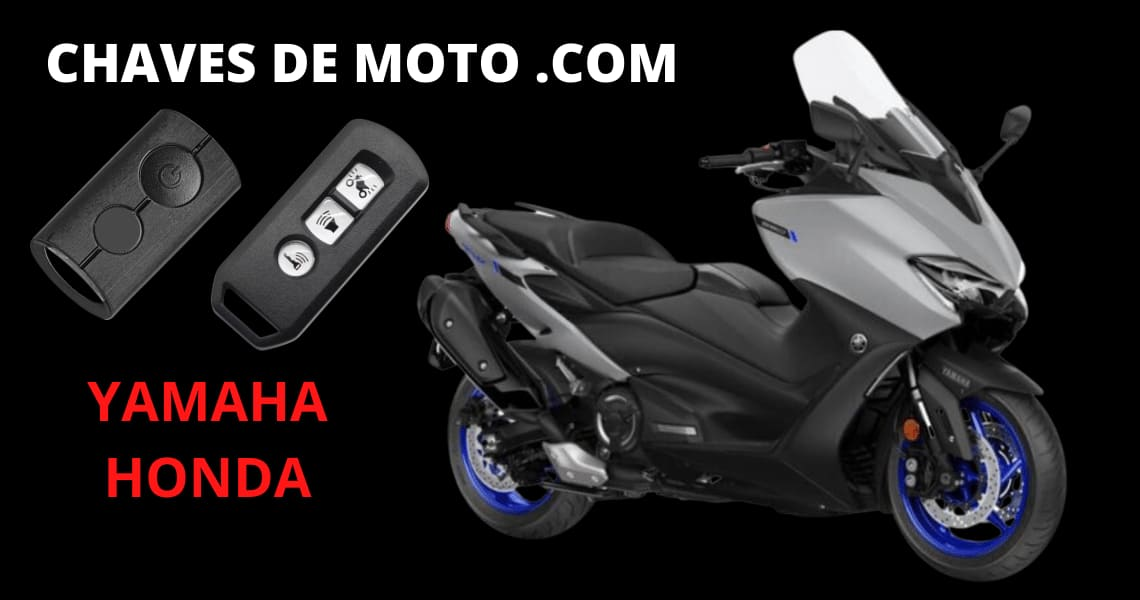
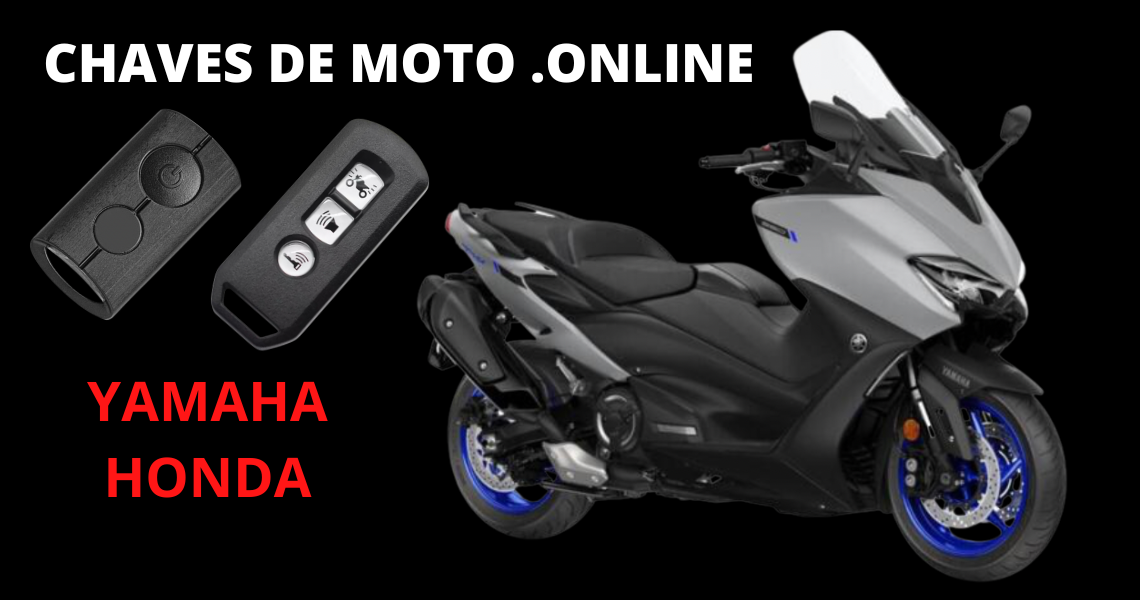
Add files via upload

Changed region(s): [[0.0307, 0.06, 0.6754, 0.15], [0.0614, 0.63, 0.2763, 0.72], [0.0921, 0.75, 0.2763, 0.84]]

diff --git a/index.html b/index.html
@@ -50,7 +50,7 @@
 			<div class="row">
 				<div class="col-md-8 wow fadeIn">
 					<div class="text-center">
-						<h2 class="text-cta text-white margin-tb-20px">Perdeu a chave do seu carro? Garantimos o menor preço!</h2>
+						<h2 class="text-cta text-white margin-tb-20px">Perdeu a chave de presença da sua moto? Garantimos o menor preço!</h2>
 					</div>
 				</div>
                 <div class="col-md-4 wow fadeIn">
@@ -68,8 +68,8 @@
 	<section class="padding-tb-40px background-white">
 		<!-- title -->
 		<div class="text-center margin-bottom-45px wow fadeInUp">
-			<h1 class="text-main-color margin-bottom-0px">Insira um Título Aqui</h1>
-			<span>Aqui poderá vir uma descrição breve. </span>
+			<h1 class="text-main-color margin-bottom-0px">FAZEMOS SUA CHAVE DE PRESENÇA (YAMAHA E HONDA) MESMO QUE TENHA PERDIDO TODAS!</h1>
+			<span>Profissionais Especializados - Chaves para pronta entrega </span>
 		</div>
 		<!-- // title -->
 		<div class="container">
@@ -79,7 +79,7 @@
 					<div class="background-second-color text-center margin-bottom-40px">
 						<img src="images/titulo1.jpg" alt="" width="350" height="247">
 						<div class="service-body padding-30px">
-							<div class="text-black text-extra-large d-block margin-bottom-10px">Titulo 1</div>
+							<div class="text-black text-extra-large d-block margin-bottom-10px">Temos sua chave de presença</div>
 						</div>
 					</div>
 				</div>
@@ -89,7 +89,7 @@
 					<div class="background-second-color text-center margin-bottom-40px">
 						<img src="images/titulo2.jpg" alt="" width="350" height="247">
 						<div class="service-body padding-30px">
-							<div class="text-black text-extra-large d-block margin-bottom-10px">Titulo 2</div>
+							<div class="text-black text-extra-large d-block margin-bottom-10px">Temos sua chave de presença</div>
 						</div>
 					</div>
 				</div>
@@ -99,7 +99,7 @@
 					<div class="background-second-color text-center margin-bottom-40px">
 						<img src="images/titulo3.jpg" alt="" width="350" height="247">
 						<div class="service-body padding-30px">
-							<div class="text-black text-extra-large d-block margin-bottom-10px">Titulo 3</div>
+							<div class="text-black text-extra-large d-block margin-bottom-10px">Temos sua chave de presença</div>
 						</div>
 					</div>
 				</div>
@@ -109,7 +109,7 @@
 					<div class="background-second-color text-center margin-bottom-40px">
 						<img src="images/titulo4.jpg" alt="" width="350" height="247">
 						<div class="service-body padding-30px">
-							<div class="text-black text-extra-large d-block margin-bottom-10px">Titulo 4</div>
+							<div class="text-black text-extra-large d-block margin-bottom-10px">Temos sua chave de presença</div>
 						</div>
 					</div>
 				</div>
@@ -119,7 +119,7 @@
 					<div class="background-second-color text-center margin-bottom-40px">
 						<img src="images/titulo5.jpg" alt="" width="350" height="247">
 						<div class="service-body padding-30px">
-							<div class="text-black text-extra-large d-block margin-bottom-10px">Titulo 5</div>
+							<div class="text-black text-extra-large d-block margin-bottom-10px">Temos sua chave de presença</div>
 						</div>
 					</div>
 				</div>
@@ -129,7 +129,7 @@
 					<div class="background-second-color text-center margin-bottom-40px">
 						<img src="images/titulo6.jpg" alt="" width="350" height="247">
 						<div class="service-body padding-30px">
-							<div class="text-black text-extra-large d-block margin-bottom-10px">Titulo 6</div>
+							<div class="text-black text-extra-large d-block margin-bottom-10px">Temos sua chave de presença</div>
 						</div>
 					</div>
 				</div>
@@ -138,7 +138,7 @@
 					<div class="background-second-color text-center margin-bottom-40px">
 						<img src="images/titulo7.jpg" alt="" width="350" height="247">
 						<div class="service-body padding-30px">
-							<div class="text-black text-extra-large d-block margin-bottom-10px">Titulo 7</div>
+							<div class="text-black text-extra-large d-block margin-bottom-10px">Temos sua chave de presença</div>
 						</div>
 					</div>
 				</div>
@@ -148,7 +148,7 @@
 					<div class="background-second-color text-center margin-bottom-40px">
 						<img src="images/titulo8.jpg" alt="" width="350" height="247">
 						<div class="service-body padding-30px">
-							<div class="text-black text-extra-large d-block margin-bottom-10px">Titulo 8</div>
+							<div class="text-black text-extra-large d-block margin-bottom-10px">Temos sua chave de presença8</div>
 						</div>
 					</div>
 				</div>
@@ -158,7 +158,7 @@
 					<div class="background-second-color text-center margin-bottom-40px">
 						<img src="images/titulo9.jpg" alt="" width="350" height="247">
 						<div class="service-body padding-30px">
-							<div class="text-black text-extra-large d-block margin-bottom-10px">Titulo 9</div>
+							<div class="text-black text-extra-large d-block margin-bottom-10px">Temos sua chave de presença</div>
 						</div>
 					</div>
 				</div>                
@@ -248,21 +248,21 @@
 					<div class="background-second-color text-center padding-30px">
 						<i class="icon_map_alt icon-large text-black"></i>
 						<h6 class="text-black font-weight-300 margin-top-15px">Endereço</h6>
-						<h5 class="text-black font-2 text-main-color">Marmora Road, Glasgow</h5>
+						<h5 class="text-black font-2 text-main-color">Av. das Américas, 4666, STD nível lagoa, Barrashopping</h5>
 					</div>
 				</div>
 				<div class="col-lg-3 col-md-6 padding-lr-0px sm-padding-0px">
 					<div class="background-second-color text-center padding-30px">
 						<i class="icon_link icon-large text-black"></i>
 						<h6 class="text-black font-weight-300 margin-top-15px">Website</h6>
-						<h5 class="text-black font-2 text-main-color">www.site-name.com</h5>
+						<h5 class="text-black font-2 text-main-color">www.chavedemoto.online</h5>
 					</div>
 				</div>
 				<div class="col-lg-3 col-md-6 padding-left-0px sm-padding-0px">
 					<div class="background-second-color text-center padding-30px">
 						<i class="icon_phone icon-large text-black"></i>
 						<h6 class="text-black font-weight-300 margin-top-15px">WhatsApp</h6>
-						<h5 class="text-black font-2 text-main-color">+222 123 3019</h5>
+						<h5 class="text-black font-2 text-main-color">(21) 96475-4133</h5>
 					</div>
 				</div>
 			</div>
@@ -286,7 +286,7 @@
 -->
 			<div class="row padding-tb-15px">
 				<div class="col-lg-12">
-					<p class="text-sm-center text-lg-center">Desenvolvido por | @2022 Todos os Direitos Reservados</p>
+					<p class="text-sm-center text-lg-center">Desenvolvido por Nandojo2023 | Todos os Direitos Reservados</p>
 				</div>
 
                 <!-- // Social -->
